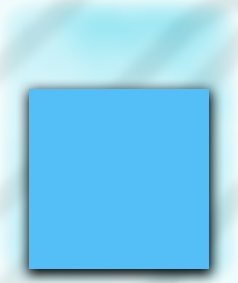
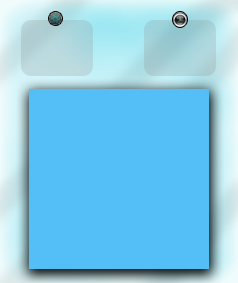
新增计时器和剩余雷数显示

Changed region(s): [[0.0882, 0.1413, 0.3824, 0.2827], [0.7059, 0.0283, 0.7941, 0.1131], [0.1765, 0.0283, 0.2647, 0.1131]]

diff --git a/Classes/SweepMain.cpp b/Classes/SweepMain.cpp
@@ -5,12 +5,15 @@
 #include "time.h"
 #include "string.h"
 #include "ctime"
+#include "sstream"
 
 USING_NS_CC;
 
 Sweep sweep[9][9];
 int clickNumber;
 clock_t touchTime;
+CCLabelTTF* timeText,*sweepText;
+int timeNumber,leftSweepNumber;
 
 bool SweepMain::init()
 {
@@ -25,6 +28,15 @@ bool SweepMain::init()
 	  creatSweepSprite(); //图像信息生成
 	  this->setTouchEnabled(true);
 	  sweepTouchCreate();//生成按钮
+	  
+	  timeText = CCLabelTTF::create("0","Felt",30);
+	  timeText->setPosition(ccp(238-57,283-48));
+	  this->addChild(timeText);
+	  sweepText = CCLabelTTF::create("10","Felt",30);
+	  sweepText->setPosition(ccp(57,283-48));
+	  this->addChild(sweepText);
+	  timeNumber = 0;leftSweepNumber = 10; 
+	  schedule(schedule_selector(SweepMain::updateTimeNumber), 1); //读秒
 
 }
 
@@ -182,6 +194,8 @@ void Sweep::clickSweepButton()
 		if (sweep[this->Xpoint][this->Ypoint].sweepNumber == 6)	sweep[this->Xpoint][this->Ypoint].sweepButton->setTexture("sweep6.png");
 		if (sweep[this->Xpoint][this->Ypoint].sweepNumber == 7)	sweep[this->Xpoint][this->Ypoint].sweepButton->setTexture("sweep7.png");
 		if (sweep[this->Xpoint][this->Ypoint].sweepNumber == 8)	sweep[this->Xpoint][this->Ypoint].sweepButton->setTexture("sweep8.png");
+
+		if (sweep[this->Xpoint][this->Ypoint].sweepButton->getTag() == 1015) updateSweepNumber(true);
 		
 		if ((this->sweepNumber == 10)&&(this->sweepClick)) {
 			sweep[this->Xpoint][this->Ypoint].sweepButton->setTexture("sweep10.png");
@@ -212,7 +226,9 @@ void Sweep::markSweepButton()
 {
 
 	sweep[this->Xpoint][this->Ypoint].sweepButton->setTexture("sweep_mark.png");
+	sweep[this->Xpoint][this->Ypoint].sweepButton->setTag(1015);
 	this->markClick = true;
+	updateSweepNumber(false);
 
 }
 
@@ -232,8 +248,26 @@ void SweepMain::toGameOver(bool winLose)
 	}
 }
 
+void SweepMain::updateTimeNumber(float t)
+{
+	timeNumber++;
+	std::stringstream ss;
+	std::string timeString;
+	ss<<timeNumber;ss>>timeString;
+	timeText->setString(timeString);
 
+}
 
+void SweepMain::updateSweepNumber(bool addOrDec)
+{
+	if (addOrDec) leftSweepNumber++; else leftSweepNumber--;
+
+	std::stringstream ss;
+	std::string sweepString;
+	ss<<leftSweepNumber;ss>>sweepString;
+	sweepText->setString(sweepString);
+
+}
 
 CCScene* SweepMain::gameScene()
 {

diff --git a/Classes/GameOverScene.cpp b/Classes/GameOverScene.cpp
@@ -1,5 +1,6 @@
 #include "cocos2d.h"
 #include "GameOverScene.h"
+#include "HelloWorldScene.h"
 
 USING_NS_CC;
 
@@ -11,15 +12,35 @@ bool GameOverScene::init()
 	  }
 
 	  Size visibleSize = Director::getInstance()->getVisibleSize();
-	  CCSprite* winSprite = CCSprite::create("win.png");
-	  winSprite->setPosition(ccp(visibleSize.width/2,visibleSize.height/2));
-	  this->addChild(winSprite);
 
+	  CCMenuItemImage* endGameButtum = CCMenuItemImage::create("exit2.png","exit2.png","exit2.png",this,menu_selector(GameOverScene::endGame));
+	  endGameButtum->setPosition(ccp(visibleSize.width/2+50,visibleSize.height/2-60));
+
+	  CCMenuItemImage* restartGameButtum = CCMenuItemImage::create("restart.png","restart.png","restart.png",this,menu_selector(GameOverScene::restartGame));
+	  restartGameButtum->setPosition(ccp(visibleSize.width/2-50,visibleSize.height/2-60));
+
+	  CCMenu *Menu = CCMenu::create(endGameButtum,restartGameButtum,NULL);
+	  Menu->setPosition(ccp(0,0));
+	  this->addChild(Menu);
+
+	  CCSprite* winSprite = CCSprite::create("win.png");
+	  winSprite->setPosition(ccp(visibleSize.width/2,visibleSize.height/2+70));
+	  this->addChild(winSprite);
+}
+
+void GameOverScene::endGame(Ref* _ref)
+{
+	Director::getInstance()->end();
+}
+
+void GameOverScene::restartGame(Ref* _ref)
+{
+	auto reScene = CCTransitionFade::create(1,HelloWorld::createScene());
+	CCDirector::sharedDirector()->replaceScene(reScene);
 }
 
 CCScene* GameOverScene::gameScene()
 {
-	CCLOG("333");
 
 	CCScene* playScene = CCScene::create();
 	GameOverScene* layer = GameOverScene::create();

diff --git a/Classes/HelloWorldScene.cpp b/Classes/HelloWorldScene.cpp
@@ -37,7 +37,7 @@ bool HelloWorld::init()
 	CCMenuItemImage* StartBottum = CCMenuItemImage::create("start1.png","start2.png","start1.png",this,menu_selector(HelloWorld::toGameStartScene));
 	StartBottum->setPosition(ccp(visibleSize.width/2,visibleSize.height/2));
 
-	CCMenuItemImage* ExitBottum = CCMenuItemImage::create("exit.png","exit.png","exit.png",this,menu_selector(HelloWorld::toExitGame));
+	CCMenuItemImage* ExitBottum = CCMenuItemImage::create("exit.png","exit_2.png","exit.png",this,menu_selector(HelloWorld::toExitGame));
 	ExitBottum->setPosition(ccp(visibleSize.width/2,visibleSize.height/2-60));
 
 	CCMenu *menu = CCMenu::create(StartBottum, ExitBottum,NULL);
@@ -58,7 +58,7 @@ void HelloWorld::toGameStartScene(Ref* _ref)
 
 void HelloWorld::toExitGame(Ref* _ref)
 {
-	return;
+	Director::getInstance()->end();
 }
 
 

diff --git a/Classes/SweepMain.h b/Classes/SweepMain.h
@@ -16,6 +16,8 @@ public:
 	void getSpriteNumble(cocos2d::CCPoint touchPoint);
 	void getSweepNumber(int x,int y);
 	void toGameOver(bool winLose);
+	void updateTimeNumber(float t);
+	void updateSweepNumber(bool addOrDec);
     virtual bool init();
     
     CREATE_FUNC(SweepMain);

diff --git a/Classes/GameOverScene.h b/Classes/GameOverScene.h
@@ -5,6 +5,8 @@ class GameOverScene : public cocos2d::Layer
 public:
 	virtual bool init();
 	static cocos2d::CCScene* gameScene();
+	void endGame(Ref* _ref);
+	void restartGame(Ref* _ref);
 
 	CREATE_FUNC(GameOverScene);
 
